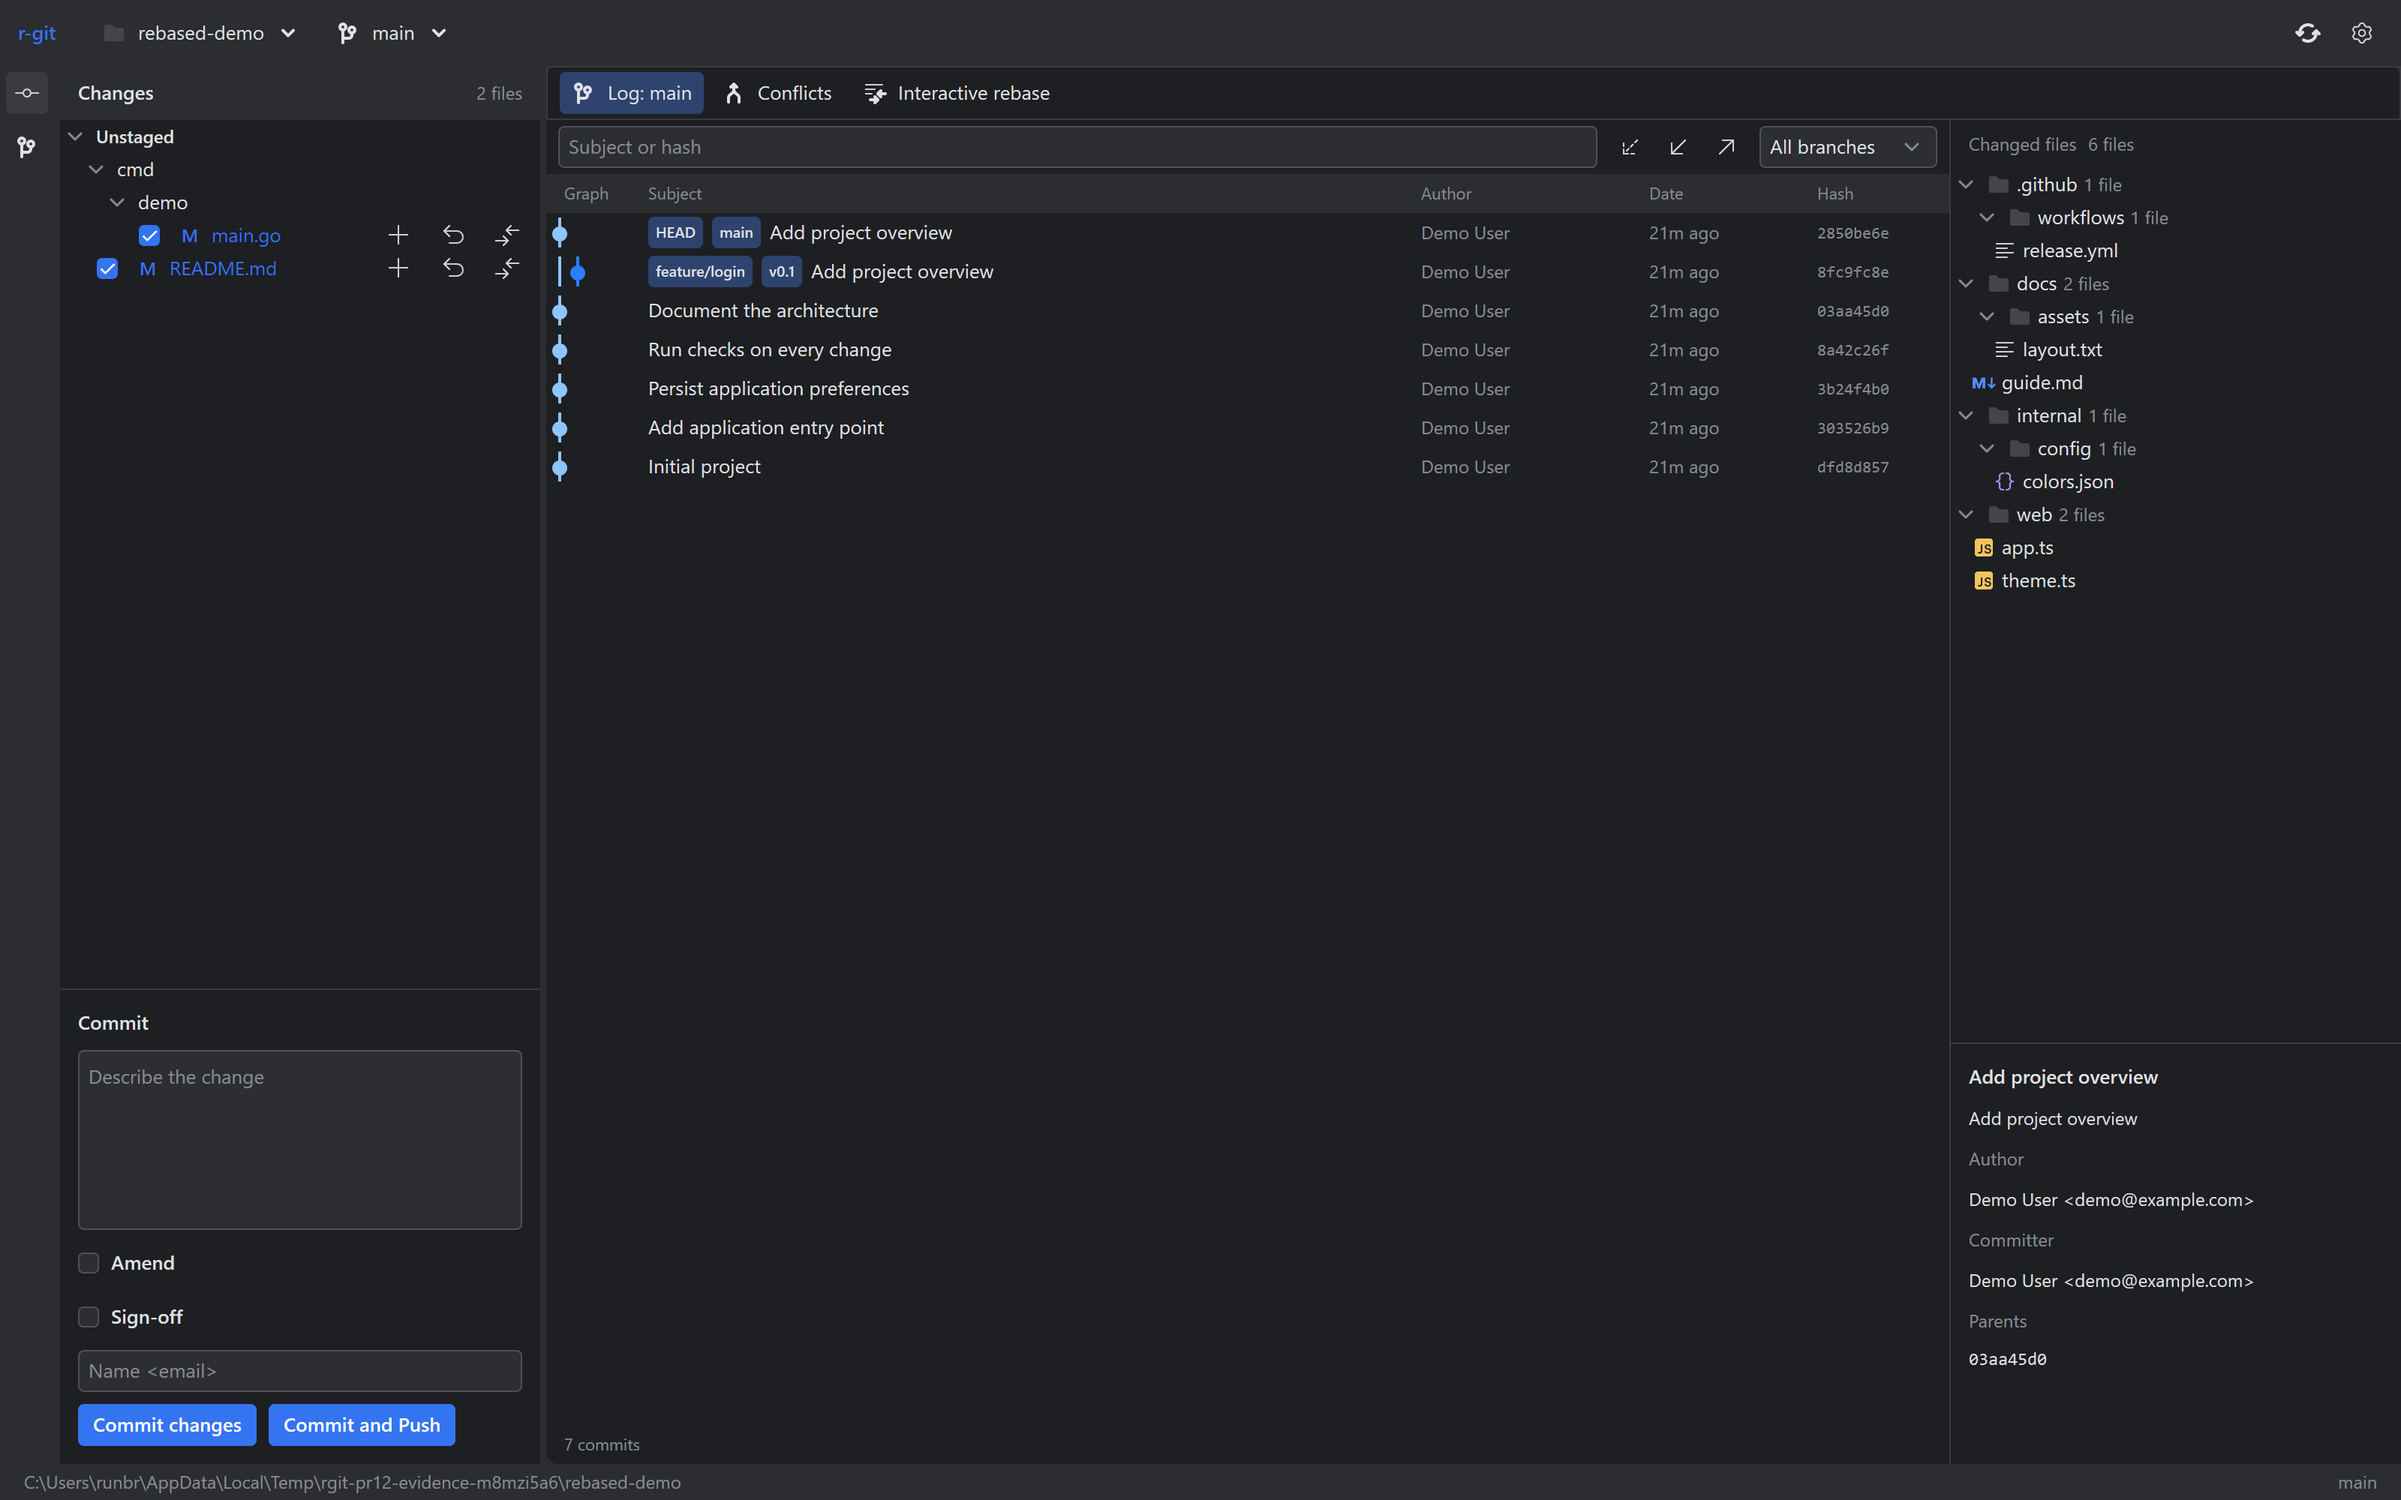
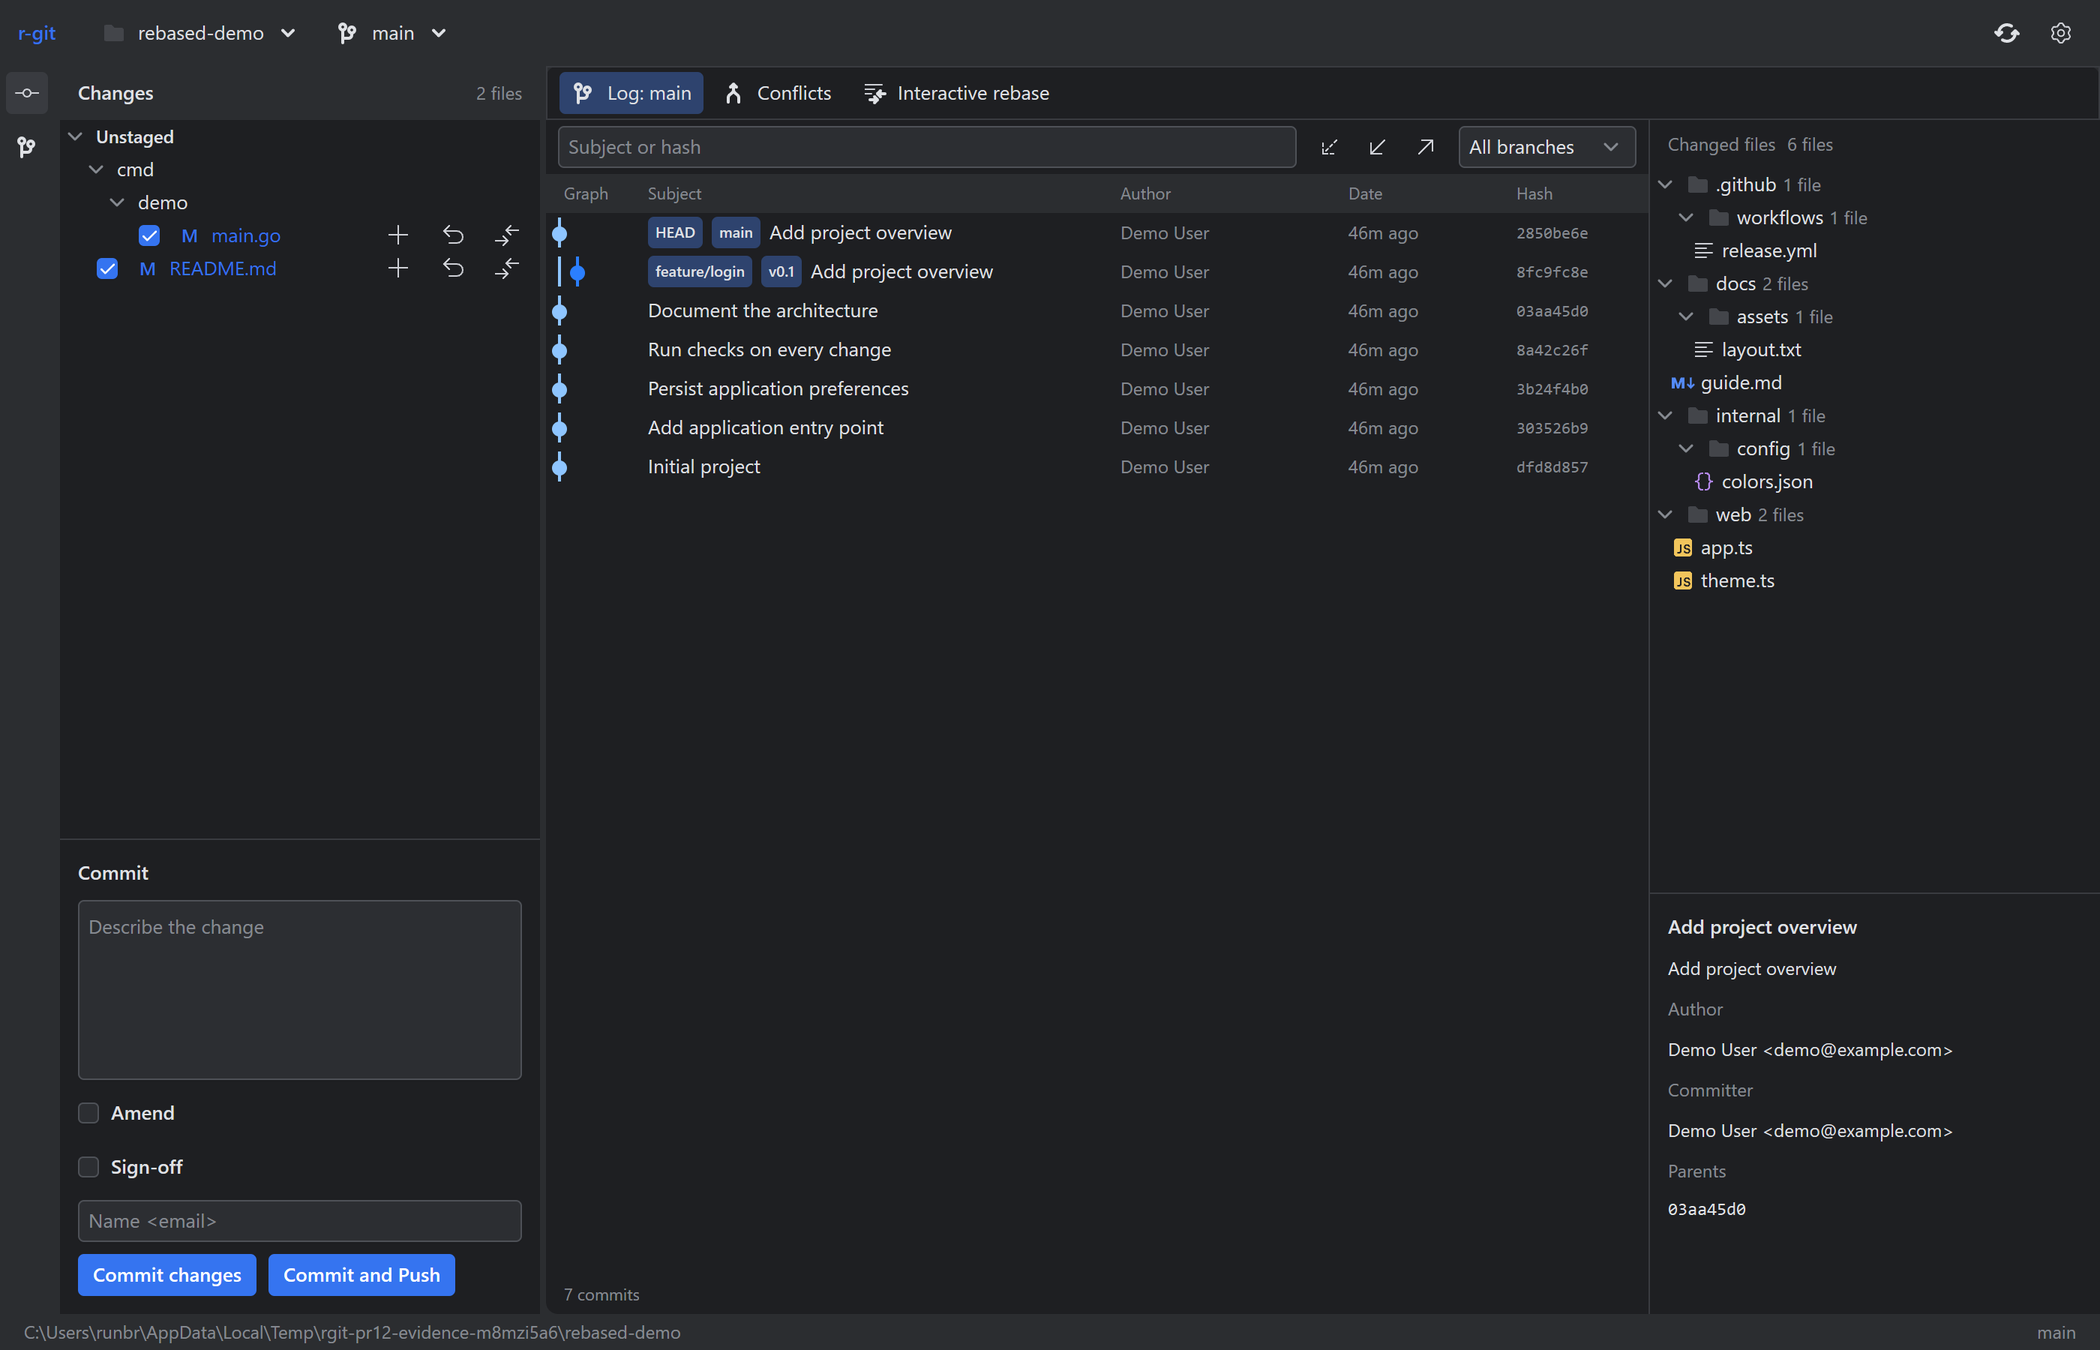
Share log column geometry across headers and rows

diff --git a/internal/ui/log/view.go b/internal/ui/log/view.go
@@ -43,6 +43,7 @@ type View struct {
 	parentLabel  string
 
 	list             ui.ListState
+	columns          commitColumns
 	visible          []int
 	searchText       []string
 	normalizedFilter string
@@ -183,16 +184,15 @@ func (v *View) Page(c ui.C) {
 						c.After(func() { v.OnBranch(branch) })
 					}
 				})
-				v.list.RowWidth = 900
 				if v.list.Label == nil {
 					v.list.Label = v.rowLabel
 				}
-				ui.Row(c).FillWidth().PadX(12).PadY(4).Gap(12).Background(theme.Card).Children(func() {
-					ui.Text(c, "Graph").Width(44).FontSize(11).Muted()
-					ui.Text(c, "Subject").Grow(1).FontSize(11).Muted()
-					ui.Text(c, "Author").Width(140).FontSize(11).Muted()
-					ui.Text(c, "Date").Width(100).FontSize(11).Muted()
-					ui.Text(c, "Hash").Width(76).FontSize(11).Muted()
+				ui.CustomLayout(c, &v.columns).FillWidth().PadX(12).PadY(4).Background(theme.Card).Children(func() {
+					ui.Text(c, "Graph").FontSize(11).Muted().Ellipsis()
+					ui.Text(c, "Subject").FontSize(11).Muted().Ellipsis()
+					ui.Text(c, "Author").FontSize(11).Muted().Ellipsis()
+					ui.Text(c, "Date").FontSize(11).Muted().Ellipsis()
+					ui.Text(c, "Hash").FontSize(11).Muted().Ellipsis()
 				})
 				ui.List(c, &v.list, len(v.visible), func(row ui.ListRow) {
 					index := v.visible[row.Index]
@@ -201,21 +201,21 @@ func (v *View) Page(c ui.C) {
 					if row.Selected() {
 						bg = theme.Selection
 					}
-					row.Element.FillWidth().Height(26).PadX(12).Gap(12).Items(ui.Center).Background(bg).DrawOver(func(d *ui.DrawContext) {
+					row.Element.FillWidth().Height(26).Background(bg).DrawOver(func(d *ui.DrawContext) {
 						v.drawGraph(d, v.GraphIndex[commit.Hash])
 					}).Children(func() {
-						ui.Slot(row.C).Width(44).Height(24)
-						ui.Column(row.C).Grow(1).Gap(2).Children(func() {
-							ui.Row(row.C).Gap(6).Items(ui.Center).Children(func() {
+						ui.CustomLayout(row.C, &v.columns).Fill().PadX(12).Children(func() {
+							ui.Slot(row.C).Height(24)
+							ui.Row(row.C).Clip().Gap(6).Items(ui.Center).Children(func() {
 								for _, label := range v.Refs[commit.Hash] {
-									ui.Text(row.C, label).FontSize(10).Bold().Color(theme.AccentForeground).Background(theme.Accent).PadX(5).PadY(2).Radius(theme.Metrics.RadiusControl)
+									ui.Text(row.C, label).Shrink(0).FontSize(10).Bold().Color(theme.AccentForeground).Background(theme.Accent).PadX(5).PadY(2).Radius(theme.Metrics.RadiusControl)
 								}
-								ui.Text(row.C, commit.Subject).FontSize(13)
+								ui.Text(row.C, commit.Subject).Grow(1).FontSize(13).Ellipsis()
 							})
+							ui.Text(row.C, commit.Author.Name).FontSize(12).Muted().Ellipsis()
+							ui.Text(row.C, relative(commit.Author.When)).FontSize(12).Muted().Ellipsis()
+							ui.Text(row.C, commit.Hash.Short()).FontSize(11).Muted().Mono().Ellipsis()
 						})
-						ui.Text(row.C, commit.Author.Name).Width(140).FontSize(12).Muted()
-						ui.Text(row.C, relative(commit.Author.When)).Width(100).FontSize(12).Muted()
-						ui.Text(row.C, commit.Hash.Short()).Width(76).FontSize(11).Muted().Mono()
 					})
 				}).Grow(1)
 				if selected := v.list.Selected(); selected >= 0 && selected < len(v.visible) {

diff --git a/internal/ui/app/shell_test.go b/internal/ui/app/shell_test.go
@@ -1,12 +1,78 @@
 package app
 
 import (
+	"fmt"
+	"strings"
 	"testing"
 
 	"github.com/runbrick/r-git/internal/config"
 	"github.com/runbrick/r-git/internal/testutil"
 	apptheme "github.com/runbrick/r-git/internal/ui/theme"
+	viva "github.com/vivaui/viva/app"
+	"github.com/vivaui/viva/gfx"
 )
+
+func TestLogColumnsAlignAtWindowWidths(t *testing.T) {
+	g := testutil.NewRepo(t)
+	g.WriteFile("base.txt", "base\n")
+	subject := strings.TrimSpace(strings.Repeat("A long commit subject must leave room for metadata ", 8))
+	g.Commit(subject)
+	g.Git("commit", "--amend", "--no-edit", "--date=2001-02-03T12:00:00Z")
+	m, d := openDriver(t, g.Dir)
+	waitFor(t, d, func() bool { return m.repo != nil && !m.log.Loading && len(m.log.Details) > 0 })
+	for _, width := range []int{1200, 1400, 1600, 1400, 1200} {
+		t.Run(fmt.Sprint(width), func(t *testing.T) {
+			if err := d.Resize(width, 900); err != nil {
+				t.Fatal(err)
+			}
+			snapshot := d.Snapshot()
+			var row gfx.Rect
+			for _, hit := range snapshot.Hits {
+				if hit.Label == subject {
+					row = hit.Bounds
+					break
+				}
+			}
+			if row.Width == 0 {
+				t.Fatal("first log row is missing")
+			}
+			find := func(value string, inRow bool) viva.Label {
+				t.Helper()
+				for _, label := range snapshot.Labels {
+					inside := label.Bounds.Y >= row.Y && label.Bounds.Y < row.Y+row.Height
+					if label.Value == value && inside == inRow && (inRow || label.Bounds.Y < row.Y) {
+						return label
+					}
+				}
+				t.Fatalf("missing painted text %q (in row: %v)", value, inRow)
+				return viva.Label{}
+			}
+			for _, column := range []struct{ heading, cell string }{
+				{"Author", m.log.Commits[0].Author.Name},
+				{"Date", "2001-02-03"},
+				{"Hash", m.log.Commits[0].Hash.Short()},
+			} {
+				header, cell := find(column.heading, false), find(column.cell, true)
+				if cell.Bounds.X < header.Bounds.X-0.5 || cell.Bounds.X+cell.Bounds.Width > header.Bounds.X+header.Bounds.Width+0.5 {
+					t.Errorf("%s cell %v falls outside header column %v", column.heading, cell.Bounds, header.Bounds)
+				}
+			}
+			ellipsis := false
+			for _, cell := range snapshot.Labels {
+				if cell.Bounds.Y < row.Y || cell.Bounds.Y >= row.Y+row.Height {
+					continue
+				}
+				if cell.Bounds.X < row.X-0.5 || cell.Bounds.X+cell.Bounds.Width > row.X+row.Width+0.5 {
+					t.Errorf("cell %q (%v) extends past log row %v", cell.Value, cell.Bounds, row)
+				}
+				ellipsis = ellipsis || strings.HasSuffix(cell.Value, "\u2026")
+			}
+			if !ellipsis {
+				t.Fatal("long subject must end with an ellipsis")
+			}
+		})
+	}
+}
 
 func TestToolWindowsKeepLogVisibleAndToggle(t *testing.T) {
 	for _, theme := range []string{"dark", "light"} {

diff --git a/internal/ui/log/columns.go b/internal/ui/log/columns.go
@@ -1,0 +1,55 @@
+package log
+
+import "github.com/vivaui/viva/ui"
+
+// commitColumns is shared by the heading and every virtualized row. Only the
+// subject absorbs spare width; a long subject must never move the metadata.
+// Viva calls PlaceWidth after the pane's actual available width is known.
+type commitColumns struct {
+	width  float32
+	widths [5]float32
+	gap    float32
+}
+
+func (*commitColumns) MeasureWidth(*ui.LayoutContext) float32 { return 0 }
+
+func (l *commitColumns) PlaceWidth(c *ui.LayoutContext, bounds ui.Rect) {
+	if l.width != bounds.Width || l.widths[0] == 0 {
+		l.width = bounds.Width
+		l.gap = min(float32(12), bounds.Width/4)
+		l.widths = [5]float32{44, 0, 140, 100, 76}
+		room := max(float32(0), bounds.Width-4*l.gap)
+		const fixed = float32(44 + 140 + 100 + 76)
+		if room >= fixed {
+			l.widths[1] = room - fixed
+		} else {
+			// Even below the supported window sizes keep all cells inside the
+			// pane, with the same compact widths in the heading and rows.
+			for i := range l.widths {
+				l.widths[i] *= room / fixed
+			}
+		}
+	}
+	x := bounds.X
+	for i, width := range l.widths {
+		c.SetX(i, x)
+		c.SetWidth(i, width)
+		x += width + l.gap
+	}
+}
+
+func (*commitColumns) MeasureHeight(c *ui.LayoutContext) float32 {
+	var height float32
+	for i := 0; i < c.Count(); i++ {
+		height = max(height, c.Height(i))
+	}
+	return height
+}
+
+func (*commitColumns) PlaceHeight(c *ui.LayoutContext, bounds ui.Rect) {
+	for i := 0; i < c.Count(); i++ {
+		height := min(c.Height(i), bounds.Height)
+		c.SetY(i, bounds.Y+(bounds.Height-height)/2)
+		c.SetHeight(i, height)
+	}
+}

diff --git a/docs/screenshots/README.md b/docs/screenshots/README.md
@@ -6,8 +6,10 @@ PR12 visual evidence
 | Dark | [before-dark.png](before-dark.png) | [after-dark.png](after-dark.png) |
 | Light | [before-light.png](before-light.png) | [after-light.png](after-light.png) |
 
-All four images show the same disposable repository at a 1600 × 1000 logical
-window size, rendered through Viva's headless build. The fixture includes
+All four images show the same disposable repository through Viva's headless
+build. The before images use a 1600 x 1000 logical window; the after images
+use the default 1400 x 900 window (`ready 1400x900 scale=2`) to demonstrate
+that the log header and metadata cells align at the default size. The fixture includes
 multiple branches, a tag, nested commit file changes, and two uncommitted files.
 The reference for the layout is Rebased's `screenshot.png` (IntelliJ New UI).
 
@@ -31,11 +33,14 @@ To capture the current application without opening a window:
    waitfor "Add project overview"
    waitfor "README.md"
    waitfor "Changed files"
-   resize 1600 1000
    shot "<absolute-path>/after-dark.png"
    ```
 
 The screenshot comparisons cover the shell, palette, density, default Commit
 tool window, icon toolbar, changed-files tree, and commit details. Log graph
-colors, ref-label styling, relative dates, author columns, and detailed commit
+colors, ref-label styling, relative dates, author styling, and detailed commit
 form design remain follow-up work for PR13.
+
+The log column regression is also covered by an `app.Driver` test at 1200,
+1400, and 1600 logical pixels, including resizing back down. It checks the
+Author, Date, and Hash header/cell ranges, row bounds, and long-subject ellipsis.
